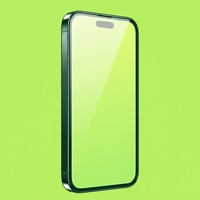
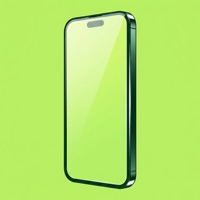
Формы нельзя отправить пустыми, плитки скидок с иконкой рядом с процентом
- «Зарегистрироваться» неактивна без имени, телефона и согласия
- «Уже покупали у нас?» неактивна без контакта и описания покупок
- Плитки: процент и объёмная иконка в ряд, под ними — за что скидка
- Телефон в плитке девайсов развёрнут в другую сторону

Changed region(s): [[0.3, 0.03, 0.72, 0.99]]

diff --git a/app.js b/app.js
@@ -446,9 +446,11 @@ function percentTile(d, i, wide) {
   }
   const art = programArt(d.name);
   return `<article class="tile tile-pct ${i % 2 ? 'tone-lime' : 'tone-forest'} ${wide ? 'tile-wide' : ''}">
-    ${art ? `<img class="tile-art" src="img/${art}.jpg" alt="" width="72" height="72">` : ''}
-    <p class="tile-label">Скидка на ${esc(lower(d.name))}</p>
-    <p class="tile-value">${value}<span>%</span></p>
+    <div class="tile-top">
+      <p class="tile-value">${value}<span>%</span></p>
+      ${art ? `<img class="tile-art" src="img/${art}.jpg" alt="" width="64" height="64">` : ''}
+    </div>
+    <p class="tile-label">на ${esc(lower(d.name))}</p>
     ${note ? `<p class="tile-note">${note}</p>` : ''}
   </article>`;
 }
@@ -523,7 +525,7 @@ function viewRegister() {
     ${err('consent')}
 
     <div class="form-actions">
-      <button class="btn btn-primary" data-action="submit-register" ${state.busy ? 'disabled' : ''}>${state.busy ? 'Регистрируем…' : 'Зарегистрироваться'}</button>
+      <button class="btn btn-primary" data-action="submit-register" ${state.busy || !registerReady() ? 'disabled' : ''}>${state.busy ? 'Регистрируем…' : 'Зарегистрироваться'}</button>
       <button class="linkbtn" data-action="restore">${icon('restore', 'm', 18)}Уже покупали у нас?</button>
     </div>
   </section>`;
@@ -543,9 +545,10 @@ function viewRestore() {
     <label class="field"><span>Предыдущие покупки</span>
       <textarea id="r-comment" rows="4" maxlength="500" placeholder="Например: iPhone 15 в марте, ещё чехол и стекло">${esc(r.comment)}</textarea>
       <small class="field-hint">Напиши, что и когда покупал. Мы найдём историю, и скидка появится, когда ты снова откроешь магазин.</small></label>
+    ${err('comment')}
 
     <div class="form-actions">
-      <button class="btn btn-primary" data-action="submit-restore" ${state.busy ? 'disabled' : ''}>${state.busy ? 'Отправляем…' : 'Отправить'}</button>
+      <button class="btn btn-primary" data-action="submit-restore" ${state.busy || !restoreReady() ? 'disabled' : ''}>${state.busy ? 'Отправляем…' : 'Отправить'}</button>
     </div>
   </section>`;
 }
@@ -659,6 +662,7 @@ function sharePhone() {
       state.form.contact = res.response;
       state.form.errors.phone = null;
       render();
+      updateFormButtons();
     } else {
       toast('Номер отправлен боту. Введи его в поле вручную.');
     }
@@ -674,6 +678,29 @@ function requestWriteAccess() {
 
 function phoneError(phone) {
   return phone.replace(/\D/g, '').length < 10 ? 'Укажи телефон полностью, например +7 900 123-45-67' : null;
+}
+
+// Кнопки отправки неактивны, пока не заполнено обязательное.
+function contactValid(v) {
+  const c = v.trim();
+  return c.replace(/\D/g, '').length >= 10 || /^@?[A-Za-z][A-Za-z0-9_]{3,31}$/.test(c);
+}
+
+function registerReady() {
+  const f = state.form;
+  return !!f.name.trim() && !phoneError(f.phone) && f.consent;
+}
+
+function restoreReady() {
+  const r = state.restore;
+  return contactValid(r.contact) && r.comment.trim().length >= 3;
+}
+
+function updateFormButtons() {
+  const reg = $view.querySelector('[data-action="submit-register"]');
+  if (reg) reg.disabled = state.busy || !registerReady();
+  const res = $view.querySelector('[data-action="submit-restore"]');
+  if (res) res.disabled = state.busy || !restoreReady();
 }
 
 async function submitRegister() {
@@ -710,10 +737,9 @@ async function submitRestore() {
   const r = state.restore;
   r.errors = {};
   const contact = r.contact.trim();
-  const isPhone = contact.replace(/\D/g, '').length >= 10;
-  const isNick = /^@?[A-Za-z][A-Za-z0-9_]{3,31}$/.test(contact);
-  if (!isPhone && !isNick) r.errors.contact = 'Укажи телефон (например, +7 900 123-45-67) или ник в Telegram';
-  if (r.errors.contact) return render();
+  if (!contactValid(contact)) r.errors.contact = 'Укажи телефон (например, +7 900 123-45-67) или ник в Telegram';
+  if (r.comment.trim().length < 3) r.errors.comment = 'Напиши, что ты покупал раньше';
+  if (r.errors.contact || r.errors.comment) return render();
 
   await requestWriteAccess();
 
@@ -809,9 +835,11 @@ $view.addEventListener('input', e => {
   else if (t.id === 'f-consent') state.form.consent = t.checked;
   else if (t.id === 'r-comment') state.restore.comment = t.value;
   else if (t.id === 'r-contact') state.restore.contact = t.value;
+  updateFormButtons();
 });
 $view.addEventListener('change', e => {
   if (e.target.id === 'f-consent') state.form.consent = e.target.checked;
+  updateFormButtons();
 });
 
 // Сломанная картинка товара → остаётся иконка-заглушка под ней.

diff --git a/style.css b/style.css
@@ -544,16 +544,18 @@ a { color: var(--link); }
 .tile-icon.tone-forest { color: var(--lime); }
 .tile-icon.tone-forest::after { display: none; }
 .tile-pct { display: flex; flex-direction: column; }
+.tile-top { display: flex; align-items: center; justify-content: space-between; gap: 8px; }
+.tile-top .tile-value { margin-top: 0; }
 .tile-art {
-  position: absolute;
-  top: 8px;
-  right: 8px;
-  width: 72px;
-  height: 72px;
+  flex: none;
+  width: 64px;
+  height: 64px;
+  margin: -6px -6px -6px 0;
   -webkit-mask-image: radial-gradient(closest-side, #000 78%, transparent 100%);
   mask-image: radial-gradient(closest-side, #000 78%, transparent 100%);
 }
-.tile-pct .tile-label { padding-right: 64px; }
+.tile-pct { justify-content: center; }
+.tile-pct .tile-label { margin-top: 8px; font-size: 14px; }
 .tile-value {
   margin-top: auto;
   font-size: 48px;
